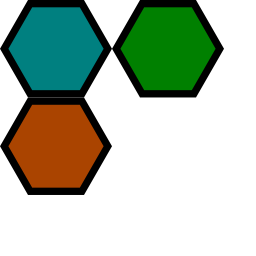
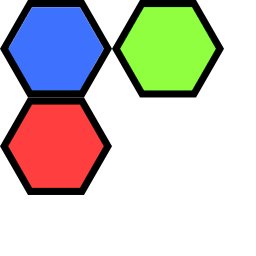
Adding new resources, moving stuff, preparing for the big library update to 0.9.9 (STABLE)
Former-commit-id: 63641a7e4b14f0cda6368d7b7d71d57a0090127a

Changed region(s): [[0.4688, 0.0, 0.8438, 0.375], [0.0312, 0.0, 0.4062, 0.375], [0.0312, 0.4062, 0.4062, 0.75]]

diff --git a/ClientCore/src/de/r2soft/space/client/screens/gameplay/HexMapScreen.java b/ClientCore/src/de/r2soft/space/client/screens/gameplay/HexMapScreen.java
@@ -25,7 +25,6 @@ import com.badlogic.gdx.graphics.Color;
 import com.badlogic.gdx.graphics.GL10;
 import com.badlogic.gdx.graphics.OrthographicCamera;
 import com.badlogic.gdx.graphics.Texture;
-import com.badlogic.gdx.graphics.g2d.TextureRegion;
 import com.badlogic.gdx.graphics.glutils.ShapeRenderer;
 import com.badlogic.gdx.graphics.glutils.ShapeRenderer.ShapeType;
 import com.badlogic.gdx.maps.MapLayers;
@@ -82,7 +81,7 @@ public class HexMapScreen implements Screen {
 	private Stage stage;
 	private TextButton settings, quit, logout, profile, refresh, enterSystem;
 	private Table naviRight, naviLeft, centerTop, systemInfo;
-	private Label title, welcome;
+	private Label title, welcome, systemSelector;
 	private Dialog profileDialog, areYouSure;
 
 	{
@@ -134,21 +133,27 @@ public class HexMapScreen implements Screen {
 
 		Gdx.input.setInputProcessor(input);
 
-		hexture = new Texture(Gdx.files.internal("assets/hexes.png"));
-		TextureRegion[][] hexes = TextureRegion.split(hexture, 112, 97);
+		// hexture = new Texture(Gdx.files.internal("assets/hexes2.png"));
+		// TextureRegion[][] hexes = TextureRegion.split(hexture, 112, 97);
 		map = new TiledMap();
 		MapLayers layers = map.getLayers();
-		TiledMapTile[] tiles = new TiledMapTile[3];
-		tiles[0] = new StaticTiledMapTile(new TextureRegion(hexes[0][0]));
-		tiles[1] = new StaticTiledMapTile(new TextureRegion(hexes[0][1]));
-		tiles[2] = new StaticTiledMapTile(new TextureRegion(hexes[1][0]));
+		TiledMapTile[] tiles = new TiledMapTile[4];
+		// tiles[0] = new StaticTiledMapTile(new TextureRegion(hexes[0][0]));
+		// tiles[1] = new StaticTiledMapTile(new TextureRegion(hexes[0][1]));
+		// tiles[2] = new StaticTiledMapTile(new TextureRegion(hexes[1][0]));
+
+		tiles[0] = new StaticTiledMapTile(ResPack.TILES_BLUE);
+		tiles[1] = new StaticTiledMapTile(ResPack.TILES_GREEN);
+		tiles[2] = new StaticTiledMapTile(ResPack.TILES_RED);
+		tiles[3] = new StaticTiledMapTile(ResPack.TILES_WHITE);
 
 		for (int l = 0; l < 1; l++) {
 			TiledMapTileLayer layer = new TiledMapTileLayer(45, 30, 112, 97);
 			for (int y = 0; y < 30; y++) {
 				for (int x = 0; x < 45; x++) {
-					int id = (int) (Math.random() * 3);
+					int id = (int) (Math.random() * 4);
 					Cell cell = new Cell();
+
 					cell.setTile((TiledMapTile) tiles[id]);
 					layer.setCell(x, y, cell);
 				}
@@ -319,6 +324,7 @@ public class HexMapScreen implements Screen {
 			public void touchUp(InputEvent event, float x, float y,
 					int pointer, int button) {
 
+				// TODO: Request logout from server
 				handler.setScreen(new LoginScreen(handler));
 			}
 		});
@@ -383,8 +389,8 @@ public class HexMapScreen implements Screen {
 		naviRight.row();
 
 		/** Setting up the left navigation */
-		naviLeft.add(logout).width(Sizes.SIZE_UI_BUTTON_NAVIGON);
 		naviLeft.add(quit).width(Sizes.SIZE_UI_BUTTON_NAVIGON);
+		naviLeft.add(logout).width(Sizes.SIZE_UI_BUTTON_NAVIGON);
 
 		/** Setting up the center top label table */
 		centerTop.add(title).width(Sizes.SIZE_UI_FIELD_CONTENT);
@@ -423,6 +429,21 @@ public class HexMapScreen implements Screen {
 		systemInfo.add(enterSystem).width(Sizes.SIZE_UI_FIELD_CONTENT)
 				.colspan(2);
 		systemInfo.row();
+
+		// TODO: Make this pretty!
+		setupInfoLabelBottom();
+
+	}
+
+	@Deprecated
+	/** Hovering display for mouse on map */
+	private void setupInfoLabelBottom() {
+		Table selectorTable = new Table();
+		systemSelector = new Label("Currently selected Solar System: "
+				+ "545-101: KateTheAwesome: Red Giant", ResPack.UI_SKIN);
+		selectorTable.setPosition(mapDim.fst.x + 255, mapDim.fst.y - 10);
+		selectorTable.add(systemSelector);
+		stage.addActor(selectorTable);
 
 	}
 

diff --git a/ClientCore/src/de/r2soft/space/client/types/SolSystemRenderer.java b/ClientCore/src/de/r2soft/space/client/types/SolSystemRenderer.java
@@ -1,0 +1,61 @@
+/* #########################################################################
+ * Copyright (c) 2013 Random Robot Softworks
+ * 
+ * This program is free software: you can redistribute it and/or modify
+ * it under the terms of the GNU General Public License as published by
+ * the Free Software Foundation, either version 3 of the License, or
+ * (at your option) any later version.
+ * 
+ * This program is distributed in the hope that it will be useful,
+ * but WITHOUT ANY WARRANTY; without even the implied warranty of
+ * MERCHANTABILITY or FITNESS FOR A PARTICULAR PURPOSE.  See the
+ * GNU General Public License for more details.
+ * 
+ * You should have received a copy of the GNU General Public License
+ * along with this program.  If not, see <http://www.gnu.org/licenses/>.
+ * 
+ ######################################################################### */
+
+package de.r2soft.space.client.types;
+
+import com.badlogic.gdx.graphics.OrthographicCamera;
+import com.badlogic.gdx.maps.MapRenderer;
+import com.badlogic.gdx.math.Matrix4;
+import com.badlogic.gdx.utils.Disposable;
+
+/**
+ * A custom renderer that renders a solar system with a star in the middle and
+ * planets orbiting on circular planes around the star.
+ * 
+ * @author ***REMOVED***
+ * 
+ */
+public class SolSystemRenderer implements MapRenderer, Disposable {
+
+	@Override
+	public void dispose() {
+
+	}
+
+	@Override
+	public void setView(OrthographicCamera camera) {
+
+	}
+
+	@Override
+	public void setView(Matrix4 projectionMatrix, float viewboundsX,
+			float viewboundsY, float viewboundsWidth, float viewboundsHeight) {
+
+	}
+
+	@Override
+	public void render() {
+
+	}
+
+	@Override
+	public void render(int[] layers) {
+
+	}
+
+}

diff --git a/ClientCore/src/de/r2soft/space/client/util/ResPack.java b/ClientCore/src/de/r2soft/space/client/util/ResPack.java
@@ -33,6 +33,18 @@ public class ResPack {
 
 	// Textures
 
+	/** NEW HEX TILES */
+	private static final TextureAtlas atlas = new TextureAtlas(
+			Gdx.files.internal("assets/map/v2/v2hexmap.atlas"));
+	public static final TextureRegion TILES_BLUE = atlas
+			.findRegion("hextile_blue");
+	public static final TextureRegion TILES_GREEN = atlas
+			.findRegion("hextile_green");
+	public static final TextureRegion TILES_RED = atlas
+			.findRegion("hextile_red");
+	public static final TextureRegion TILES_WHITE = atlas
+			.findRegion("hextile_white");
+
 	/** Atlas imports */
 	private static final TextureAtlas INITIAL_MAP_HEX = new TextureAtlas(
 			Gdx.files.internal("assets/map/prot-map-tiles.pack"));

diff --git a/ClientCore/src/de/r2soft/space/client/a/depr/Ally.java b/ClientCore/src/de/r2soft/space/client/a/depr/Ally.java
@@ -15,7 +15,7 @@
  * along with this program.  If not, see <http://www.gnu.org/licenses/>.
  * 
  ######################################################################### */
-package de.r2soft.space.client.types;
+package de.r2soft.space.client.a.depr;
 
 /**
  * This will be used by the client to determine how to colour code items on maps for the player.
